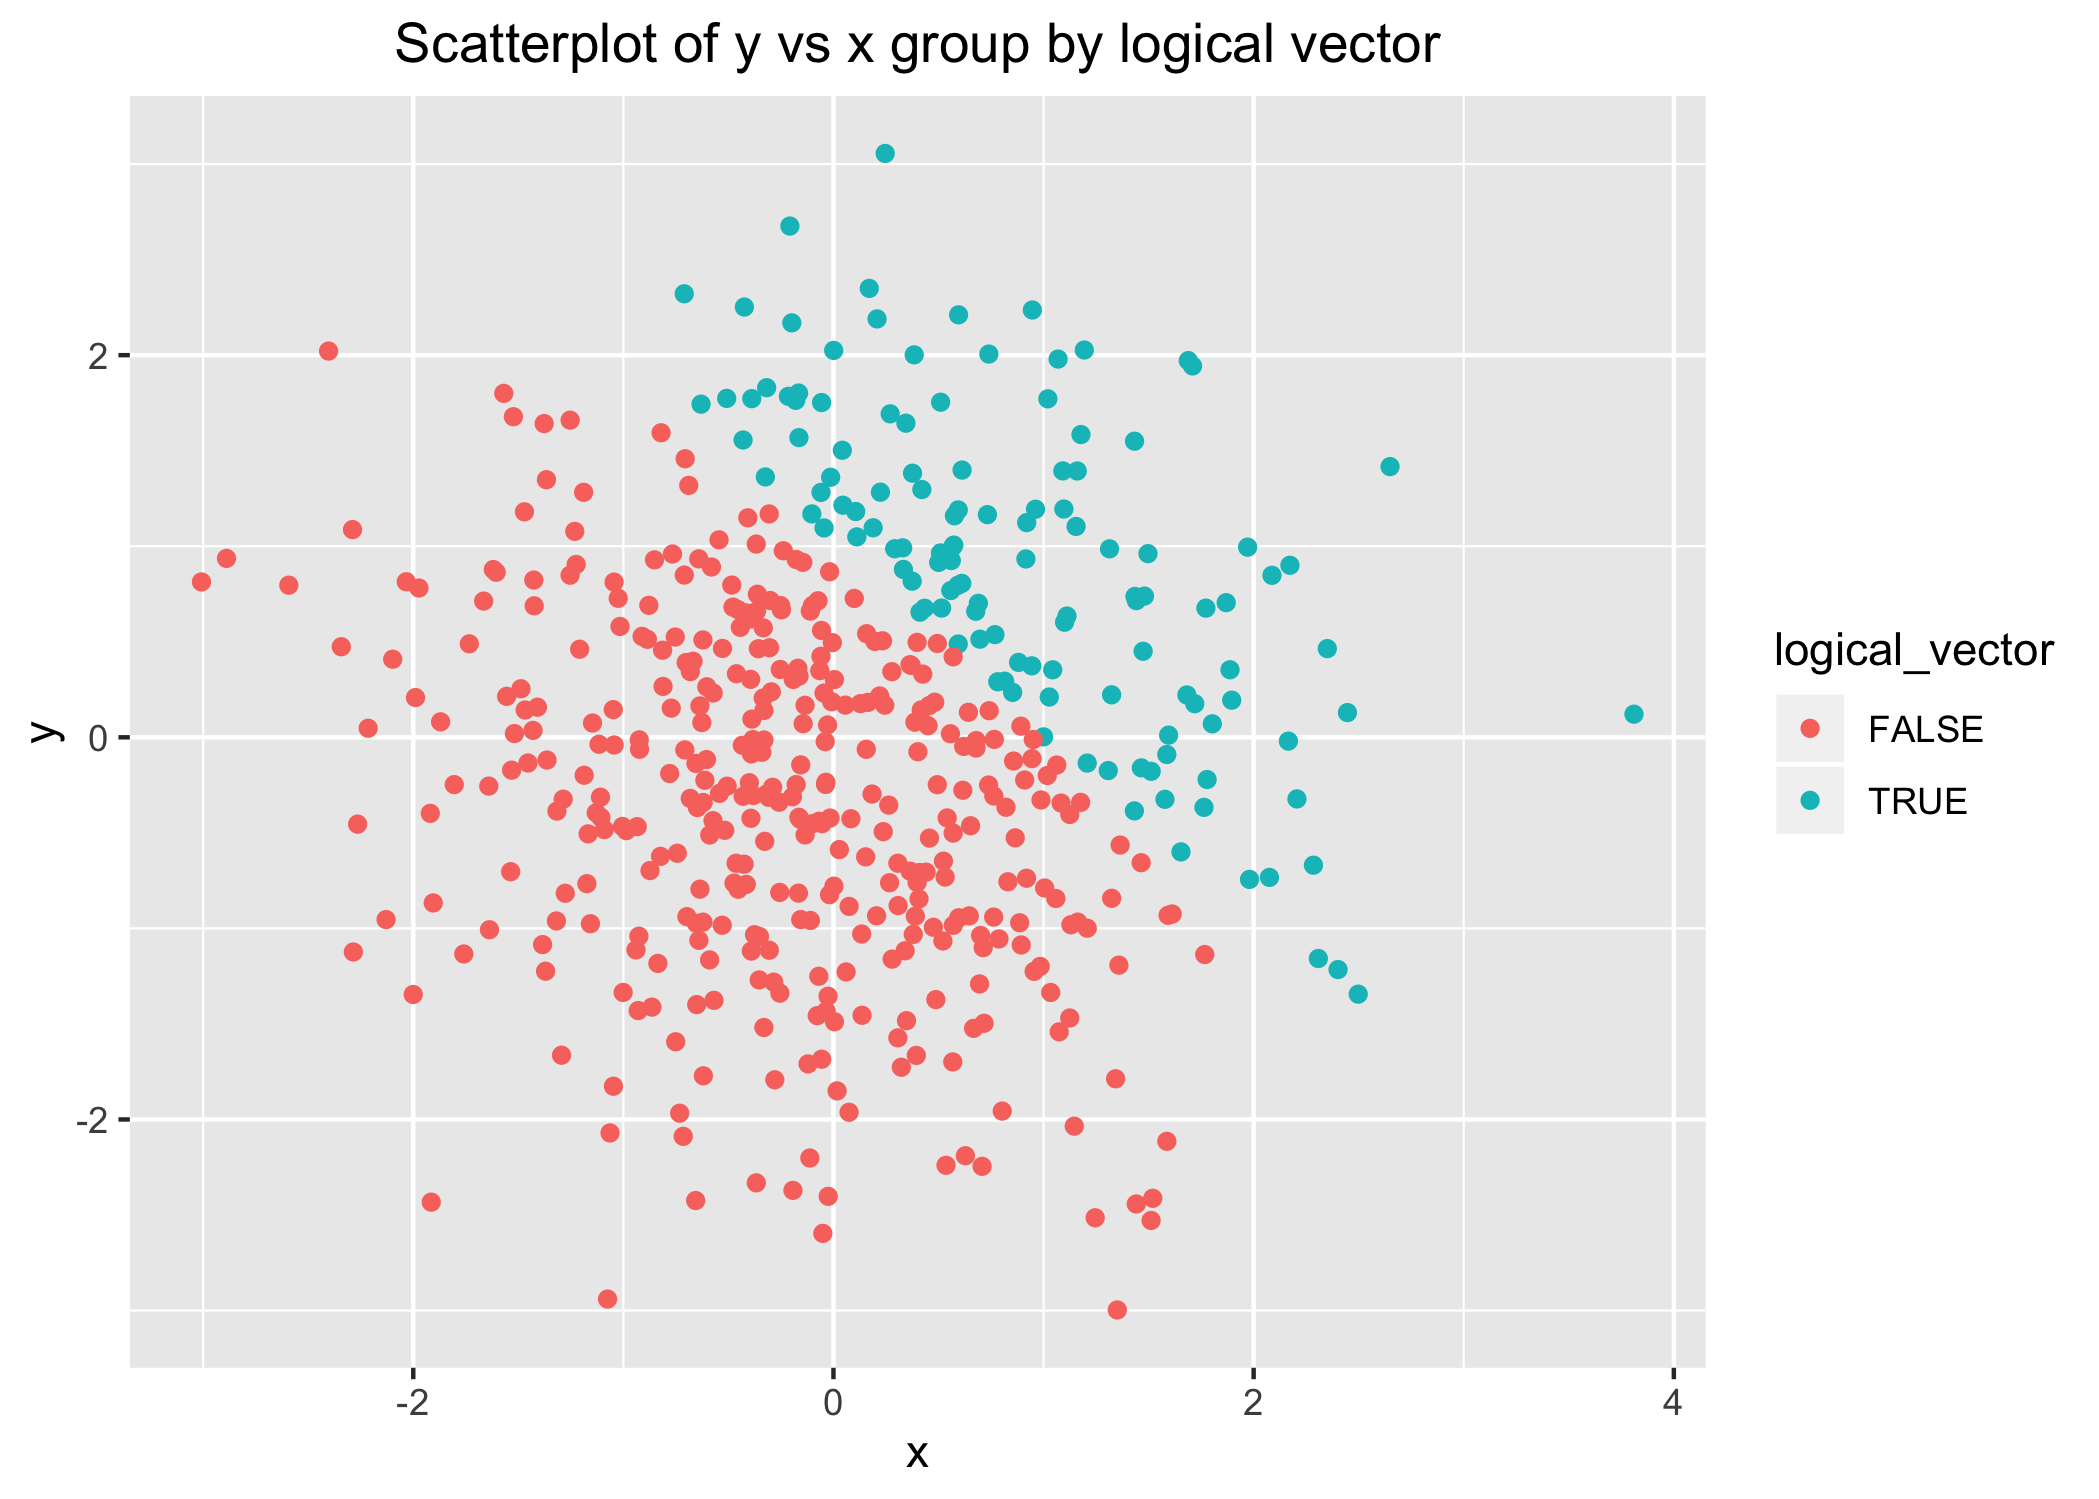
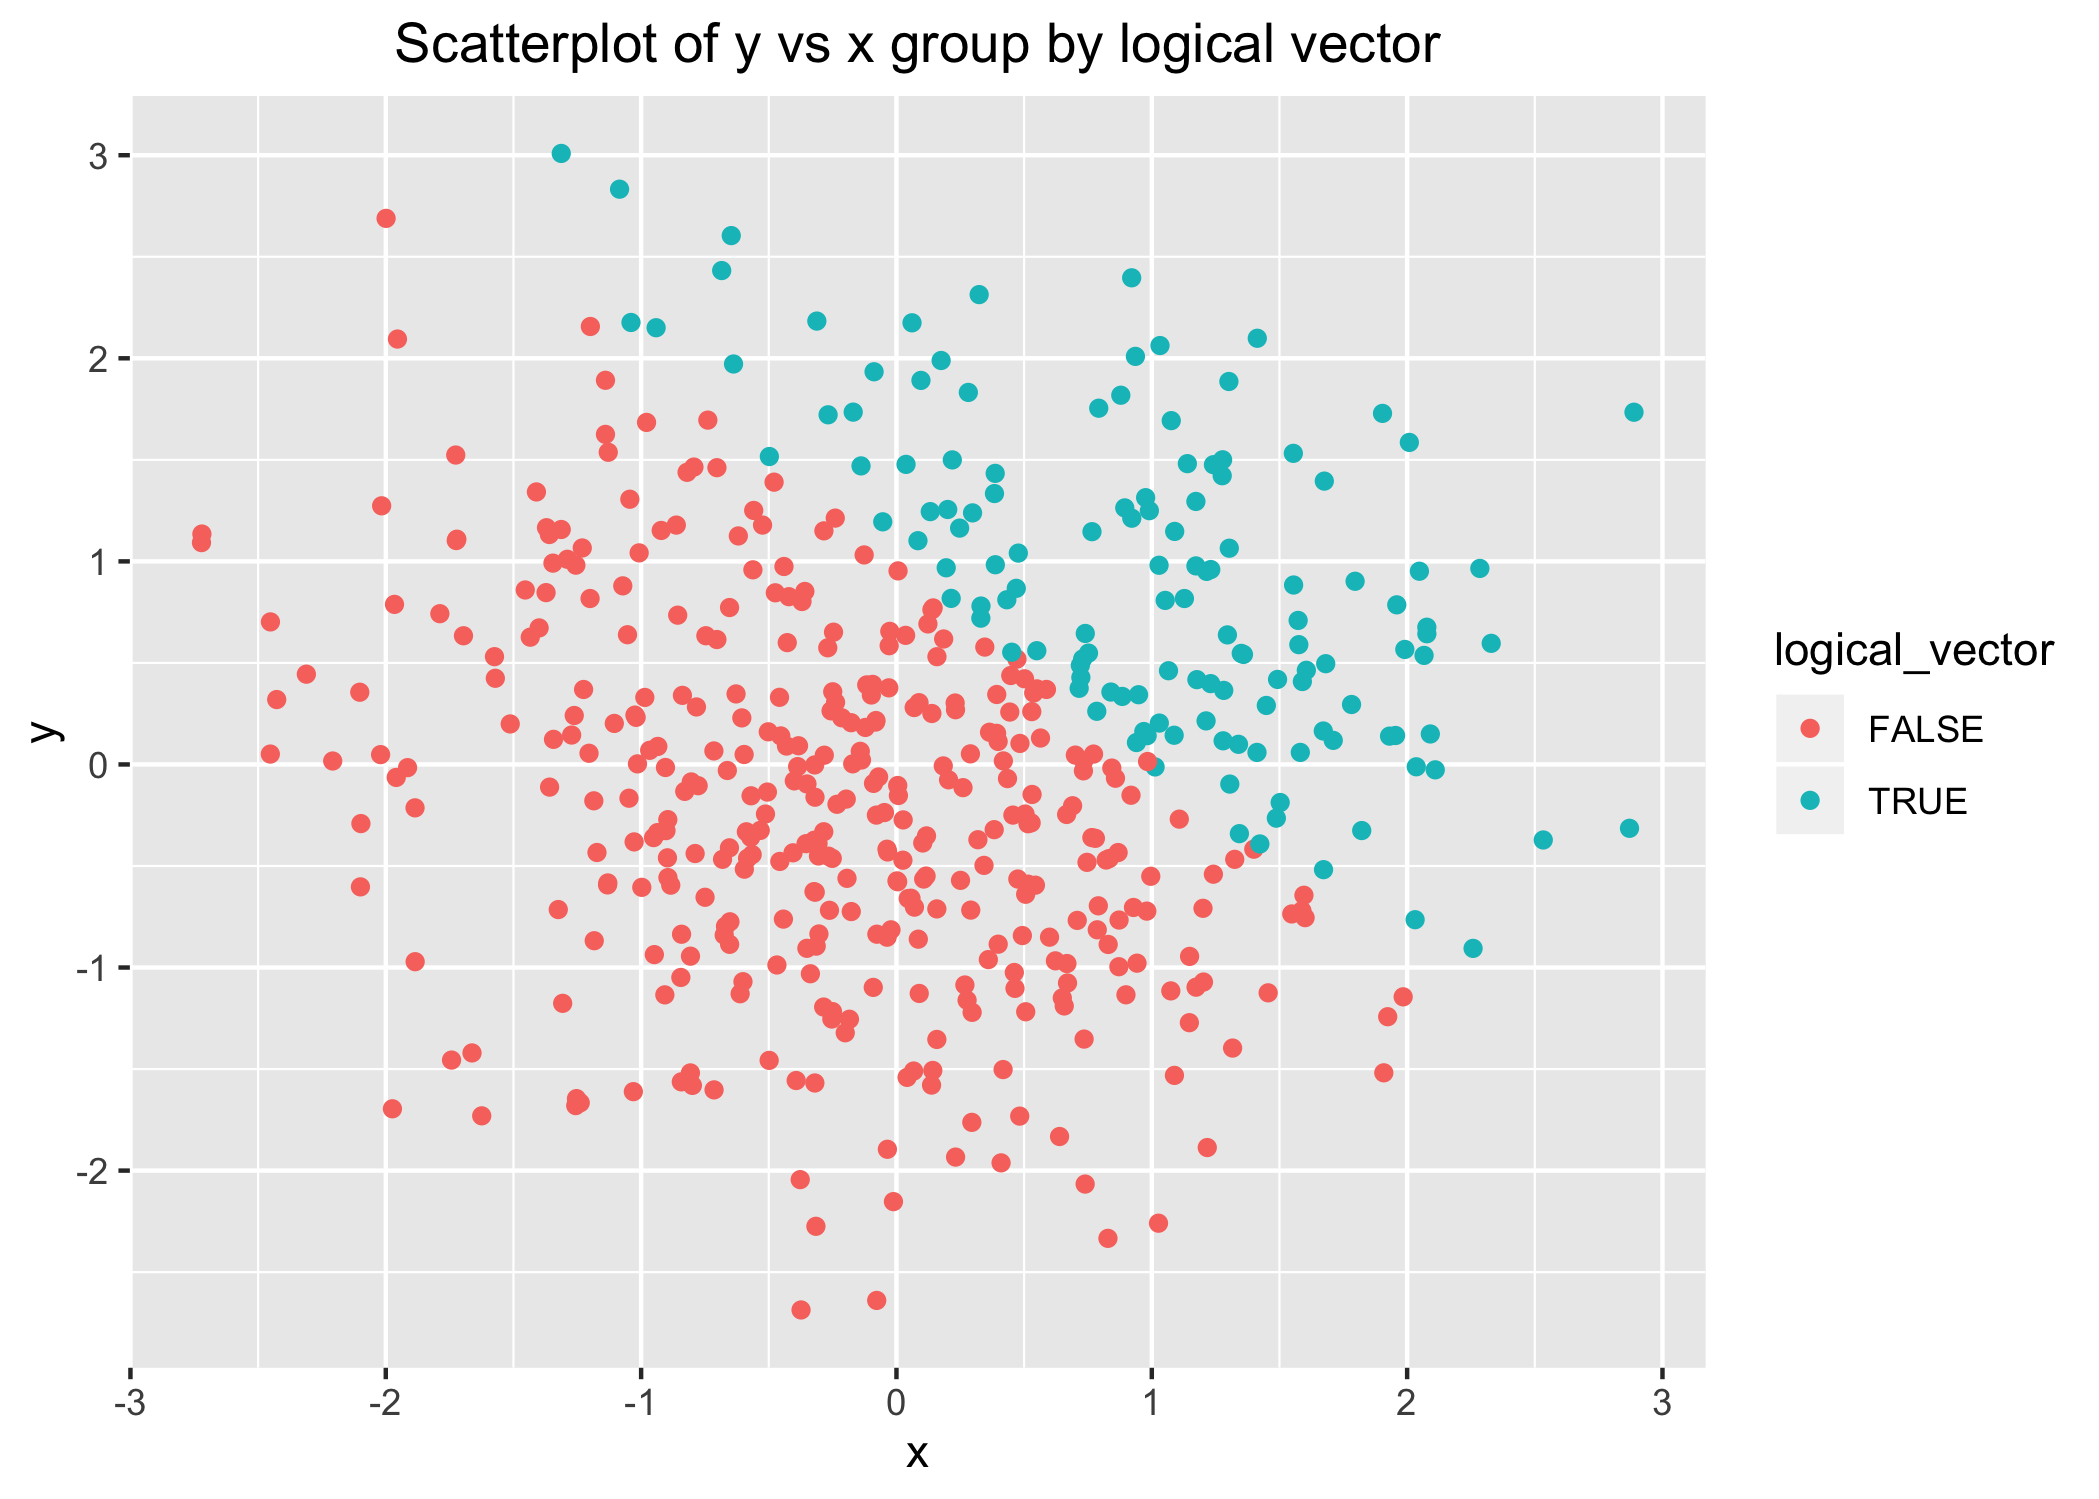
add some comment

diff --git a/p8105_hw1_jz3183.md b/p8105_hw1_jz3183.md
@@ -77,8 +77,10 @@ types.
 as.numeric(pull(df_p1, logical_vector)) * pull(df_p1, random_sample)            # convert numeric to numeric and multiplication
 ## [1] 0.0000000 0.1836433 0.0000000 1.5952808 0.3295078 0.0000000 0.4874291
 ## [8] 0.7383247
+
 as.factor(pull(df_p1, logical_vector)) * pull(df_p1, random_sample)             # convert logical to numeric and multiplication
 ## [1] NA NA NA NA NA NA NA NA
+
 as.numeric(as.factor(pull(df_p1, logical_vector))) * pull(df_p1, random_sample) # convert factor to numeric and multiplication
 ## [1] -0.6264538  0.3672866 -0.8356286  3.1905616  0.6590155 -0.8204684
 ## [7]  0.9748581  1.4766494
@@ -101,27 +103,27 @@ df_p2 <- tibble(
 # display the data frame
 df_p2
 ## # A tibble: 500 x 5
-##         x       y logical_vector numeric_vector factor_vector
-##     <dbl>   <dbl> <lgl>                   <dbl> <fct>        
-##  1 -0.626  0.0773 FALSE                       0 FALSE        
-##  2  0.184 -0.297  FALSE                       0 FALSE        
-##  3 -0.836 -1.18   FALSE                       0 FALSE        
-##  4  1.60   0.0113 TRUE                        1 TRUE         
-##  5  0.330  0.992  TRUE                        1 TRUE         
-##  6 -0.820  1.59   FALSE                       0 FALSE        
-##  7  0.487 -1.37   FALSE                       0 FALSE        
-##  8  0.738 -0.250  FALSE                       0 FALSE        
-##  9  0.576  1.16   TRUE                        1 TRUE         
-## 10 -0.305 -1.11   FALSE                       0 FALSE        
+##          x      y logical_vector numeric_vector factor_vector
+##      <dbl>  <dbl> <lgl>                   <dbl> <fct>        
+##  1 -0.897  -0.460 FALSE                       0 FALSE        
+##  2  0.185   0.618 FALSE                       0 FALSE        
+##  3  1.59   -0.720 FALSE                       0 FALSE        
+##  4 -1.13   -0.584 FALSE                       0 FALSE        
+##  5 -0.0803  0.216 FALSE                       0 FALSE        
+##  6  0.132   1.24  TRUE                        1 TRUE         
+##  7  0.708  -0.768 FALSE                       0 FALSE        
+##  8 -0.240   1.21  FALSE                       0 FALSE        
+##  9  1.98   -1.14  FALSE                       0 FALSE        
+## 10 -0.139   1.47  TRUE                        1 TRUE         
 ## # … with 490 more rows
 ```
 
 There is a short description for these vectors:
 
-  - the size of the dataset is 500 \* 5.
-  - the mean of x is 0.0226441, median of x is -0.0367783, and standard
-    deviation of x is 1.0119283.
-  - the proportion of cases for which x + y \> 1 is 0.252.
+  - the size of the dataset is (500, 5).
+  - the mean of x is 0.0616923, median of x is 0.0439172, and standard
+    deviation of x is 1.0323776.
+  - the proportion of cases for which x + y \> 1 is 0.266.
 
 The next code chunk is used to plot some graphs by ggplot
 
@@ -134,6 +136,7 @@ first_graph
 ![](p8105_hw1_jz3183_files/figure-gfm/df_p2_plot-1.png)<!-- -->
 
 ``` r
+
 # scatterplot of y vs x group by numeric vector
 second_graph <- ggplot(df_p2, aes(x = x, y = y, color = numeric_vector)) + geom_point() + labs(title = "Scatterplot of y vs x group by numeric vector", x = "x", y = "y") + theme(plot.title = element_text(hjust = 0.5))
 second_graph
@@ -142,6 +145,7 @@ second_graph
 ![](p8105_hw1_jz3183_files/figure-gfm/df_p2_plot-2.png)<!-- -->
 
 ``` r
+
 # scatterplot of y vs x group by factor vector
 third_graph <- ggplot(df_p2, aes(x = x, y = y, color = factor_vector)) + geom_point() + labs(title = "Scatterplot of y vs x group by factor vector", x = "x", y = "y") + theme(plot.title = element_text(hjust = 0.5))
 third_graph
